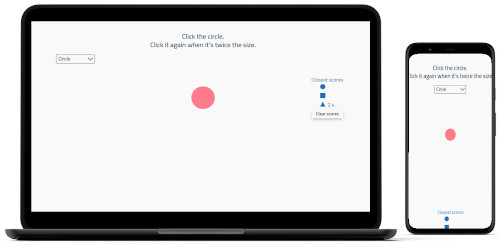
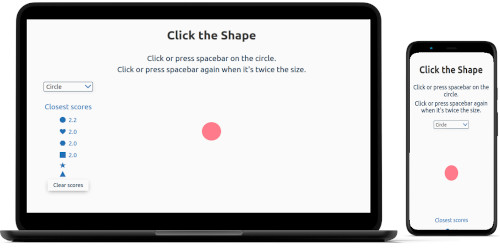
Added click the shape

diff --git a/index.html b/index.html
@@ -150,15 +150,15 @@
       </div>
 
       <div class="project">
-        <div class="projects__image"><img width="500" height="246" src="imgs/clicktheshape.jpg" alt="Click the Shape screenshot" loading="lazy"></div>
+        <div class="projects__image"><img width="500" height="248" src="imgs/clicktheshape.jpg" alt="Click the Shape screenshot" loading="lazy"></div>
         <div class="projects__text">
           <h4 class="projects__header">Click the Shape</h4>
-          <p class="projects__about">A quick game where you aim to click the shape (circle, square or triangle) when it's twice the size. Harder than it
-          looks!</p>
-          <ul class="projects__languages"><li>HTML</li> <li>SCSS</li> <li>jQuery</li> <li>Gulp</li></ul>
+          <p class="projects__about">A quick game where you aim to click the shape when it's twice the size. Harder than it
+          looks!</p> <p class="projects__note">Note, this is hosted on Heroku, so may take a little while for the server to start up.</p>
+          <ul class="projects__languages"><li>Svelte</li> <li>SCSS</li> <li>Express</li> <li>Jest</li> <li>Testing Library</li> <li>Cypress</li> <li>MongoDB</li> <li>Rollup</li></ul>
           <div class="projects__buttons">
-            <a class="projects__button" target="_blank" rel="noreferrer" href="https://click-the-shape.nicm42.co.uk/">View site</a>
-            <a class="projects__button" target="_blank" rel="noreferrer" href="https://github.com/nicm42/clickthedot">View code</a>
+            <a class="projects__button" target="_blank" rel="noreferrer" href="https://click-the-shape.herokuapp.com/">View site</a>
+            <a class="projects__button" target="_blank" rel="noreferrer" href="https://github.com/nicm42/click-the-shape">View code</a>
           </div>
         </div>
       </div>
